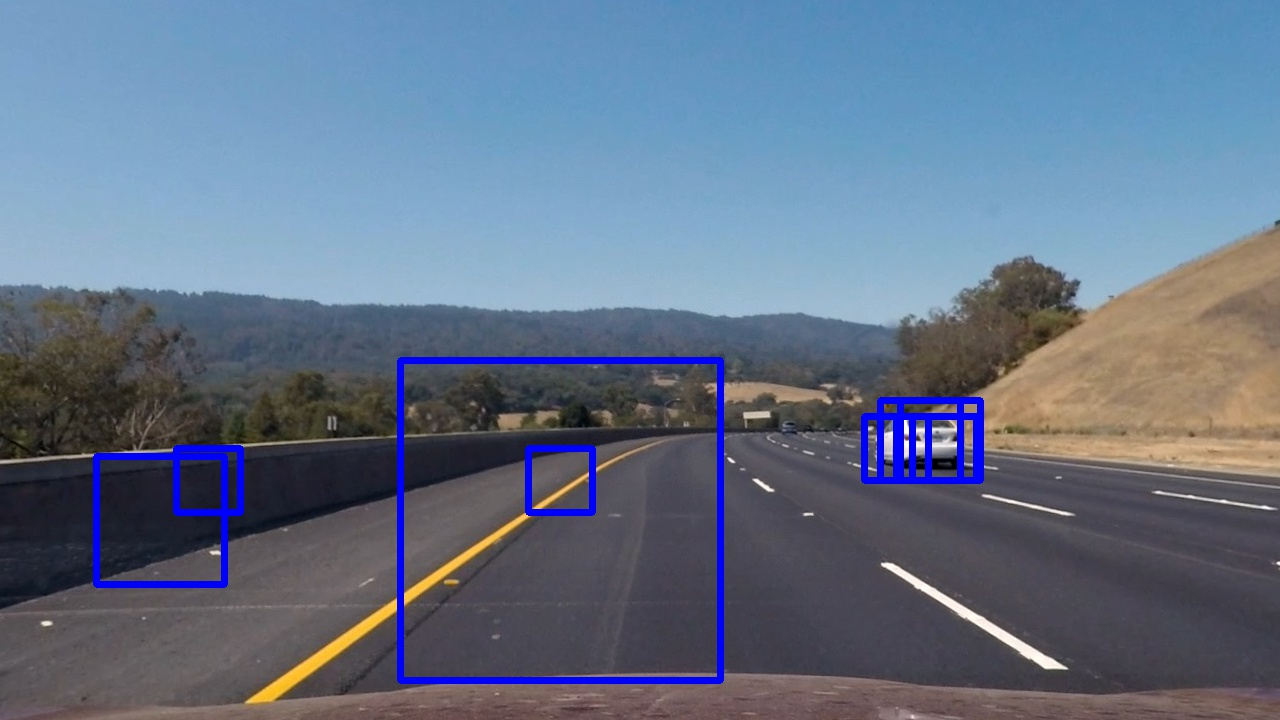
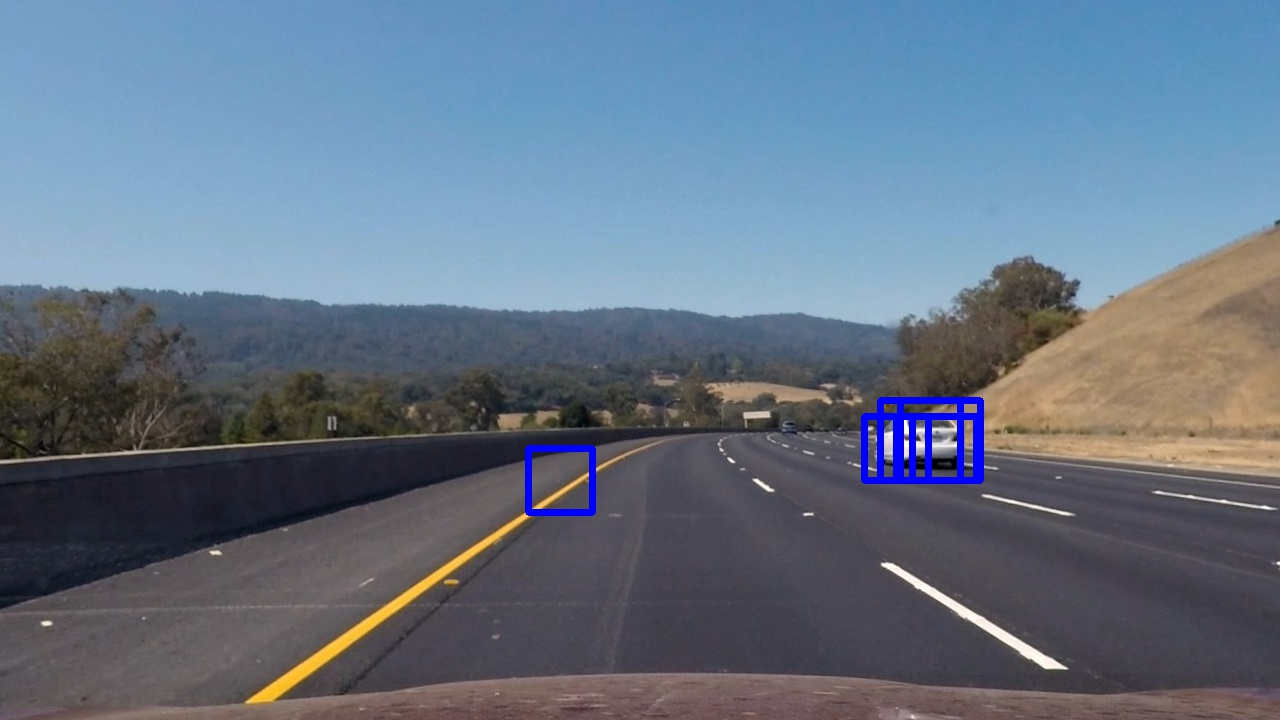
Change slide window search space

Changed region(s): [[0.2812, 0.4889, 0.5938, 0.9778], [0.0625, 0.6111, 0.2188, 0.825]]

diff --git a/py-src/p05_04_determine_slide_window.py b/py-src/p05_04_determine_slide_window.py
@@ -58,14 +58,13 @@ def find_slide_windows(img, x_start_stop=[None, None], y_start_stop=[None, None]
     # Return the list of windows
     return window_list
 
-def get_window_metrics(y_start=360):
+def get_window_metrics(y_start=400):
     # window_metrics = [(xy_window, x_start_stop, y_start_stop, overlap), ...]
     window_metrics = [
-        (320, [0, 1280], [y_start, y_start + 320], 0.75),
-        (192, [24, 1280], [y_start + 24, y_start + 312], 0.75),
-        (128, [0, 1280], [y_start + 32, y_start + 288], 0.75),
-        (80, [0, 1280], [y_start + 40, y_start + 240], 0.75),
-        (64, [0, 1280], [y_start + 40, y_start + 168], 0.75),
+        (256, [384, 1280], [y_start, y_start + 256], 0.75),
+        (128, [448, 1280], [y_start, y_start + 256], 0.75),
+        (80, [480, 1280], [y_start, y_start + 200], 0.75),
+        (64, [512, 1280], [y_start, y_start + 160], 0.75),
     ]
     return window_metrics
 
@@ -87,7 +86,7 @@ def determine_window_positions(img_dir, img_files, out_dir):
         img = mpimg.imread(img_path)
         img = np.copy(img)
 
-        fig, sub_plts = plt.subplots(2, 3, figsize=(18, 9))
+        fig, sub_plts = plt.subplots(2, 2, figsize=(18, 9))
         i_win = 0
         for win_size, x_start_stop, y_start_stop, overlap in window_metrics:
             xy_window = (win_size, win_size)
@@ -96,13 +95,12 @@ def determine_window_positions(img_dir, img_files, out_dir):
             img_boxed = draw_boxes(img, window_list, color=(0, 0, 255), thick=3)
             img_boxed = draw_boxes(img_boxed, window_list[2:3], color=(255, 0, 0), thick=6)
 
-            sub_plts[i_win // 3, i_win % 3].set_title("Window Size: {}".format(xy_window), fontsize=20)
-            sub_plts[i_win // 3, i_win % 3].imshow(img_boxed)
+            sub_plts[i_win // 2, i_win % 2].set_title("Window Size: {}".format(xy_window), fontsize=20)
+            sub_plts[i_win // 2, i_win % 2].imshow(img_boxed)
             i_win += 1
         # Save slide window plot
-        sub_plts[-1, -1].axis('off')
         fig.tight_layout()
-        fig.subplots_adjust(left=0.05, right=0.98, top=1, bottom=0.)
+        fig.subplots_adjust(left=0.02, right=0.99, top=0.95, bottom=0.03)
         out_file = "{}{}.jpg".format(out_dir, img_name)
         print("Store the image with slide-window markings to {}".format(out_file))
         fig.savefig(out_file)

diff --git a/py-src/p05_vehicle_detection_main.py b/py-src/p05_vehicle_detection_main.py
@@ -69,7 +69,7 @@ def detect_vehicle_images(img_files, steps):
 
 
 #%% Run all pipeline steps
-def run_all_steps(img, steps, camera_mtx, dist_coeffs, class_pickle):
+def run_all_steps(img, steps, camera_mtx, dist_coeffs, class_pickle, prev_frame_data):
 
     # Step 1 - Correct image distortion
     if (not steps) or (1 in steps):
@@ -77,7 +77,7 @@ def run_all_steps(img, steps, camera_mtx, dist_coeffs, class_pickle):
 
     # Step 5 - Slide Window Vehicle Search
     if (not steps) or (5 in steps):
-        bbox_list = slide_search.find_vehicle_bounding_boxes(img, class_pickle)
+        bbox_list = slide_search.find_vehicle_bounding_boxes(img, class_pickle, prev_frame_data)
         img = draw_bounding_boxes(img, bbox_list)
 
     return img
@@ -111,13 +111,15 @@ def detect_vehicle_video(video_files, steps):
         video_out_path = video_dst_dir + video_file
         print_section_header("Run lane detection on video - {}".format(video_file), 60)
 
+        # Data structure to track information from previous frame
+        prev_frame_data = {
+            'heat_map': None
+        }
         # Use subclip() to test with shorter video (the first 5 seconds for example)
-        # clip = VideoFileClip(video_path).subclip(38,42)
+        # clip = VideoFileClip(video_path).subclip(34, 43)
         clip = VideoFileClip(video_path)
         clip_processed = clip.fl_image(
-            lambda img: run_all_steps(img, steps, camera_mtx, dist_coeffs, class_pickle))
-        # prev_polys = [None, None]
-        # clip_processed = clip.fl_image(lambda img: over_annot.overlay_lane_lines(img, camera_mtx, dist_coeffs, mtx_trans, mtx_trans_inv, prev_polys))
+            lambda img: run_all_steps(img, steps, camera_mtx, dist_coeffs, class_pickle, prev_frame_data))
 
         # Write line detected videos to files
         clip_processed.write_videofile(video_out_path, audio=False)
